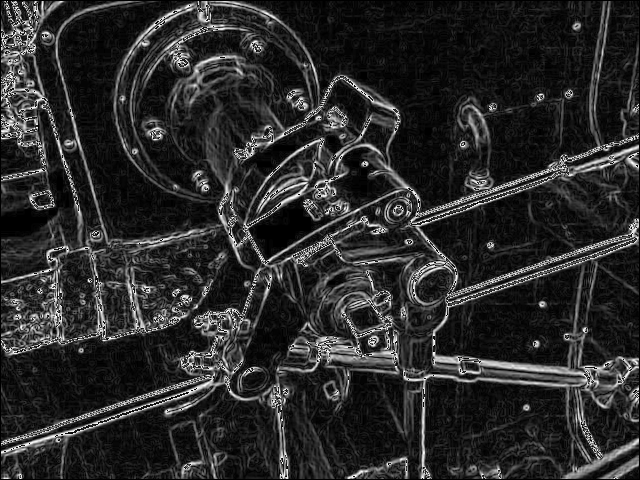
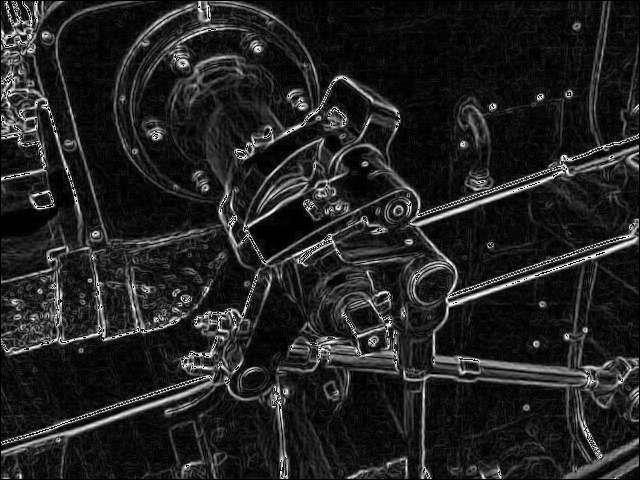
Ajouter nouveau filtres

diff --git a/filtres_contour/View.java b/filtres_contour/View.java
@@ -9,14 +9,18 @@ import javax.swing.*;
 public class View extends JFrame{
  
 	private static final long serialVersionUID = 1L;
-	private JButton bouton = new JButton("Filtre de Sobel");
-  private JButton bouton2 = new JButton("Second Filtre");
-  private JPanel container = new JPanel();
-  private JLabel label = new JLabel();
-  //private Image image ;
+	private JButton bouton = new JButton("Sobel");
+	private JButton bouton2 = new JButton("Robert's Cross");
+	private JButton bouton3 = new JButton("Prewitt");
+	private JButton boutonFermer = new JButton("Fermer");
+	private JPanel container = new JPanel();
+	private JLabel label = new JLabel();
+    //private Image image ;
   
 	ImageOriginale i = new ImageOriginale("Valve_original.png");
 	SobelFilter f = new SobelFilter();
+	RobertsCrossFilter r = new RobertsCrossFilter();
+	PrewittFilter p = new PrewittFilter();
 
   //ImageIcon image = new ImageIcon();
   
@@ -32,10 +36,14 @@ public class View extends JFrame{
    
     bouton.addActionListener(new BoutonListener());
     bouton2.addActionListener(new Bouton2Listener());
+    bouton3.addActionListener(new Bouton3Listener());
+    boutonFermer.addActionListener(new BoutonFermerListener());
         
     JPanel south = new JPanel();
     south.add(bouton);
     south.add(bouton2);
+    south.add(bouton3);
+    south.add(boutonFermer);
     container.add(south, BorderLayout.SOUTH);
 
     /*label = new JLabel()
@@ -56,22 +64,34 @@ public class View extends JFrame{
        
   
   class BoutonListener implements ActionListener{
-    
     public void actionPerformed(ActionEvent arg0) {
-
 		i.applyFilter(f);
-		
 		i.save("test_sobel.PNG");
-
     	label.setIcon(new ImageIcon("test_sobel.PNG"));
-
     }
   }
       
  
   class Bouton2Listener implements ActionListener{
     public void actionPerformed(ActionEvent e) {
-   
+    	i.applyFilter(r);
+		i.save("test_sobel.PNG");
+    	label.setIcon(new ImageIcon("test_sobel.PNG"));
     }
-  }      
+  }     
+  
+  class Bouton3Listener implements ActionListener{
+    public void actionPerformed(ActionEvent e) {
+    	i.applyFilter(p);
+		i.save("test_sobel.PNG");
+    	label.setIcon(new ImageIcon("test_sobel.PNG"));
+    }
+  }  
+  
+  class BoutonFermerListener implements ActionListener{
+    public void actionPerformed(ActionEvent e) {
+    	System.exit(0);
+    }
+  }  
+  
 }

diff --git a/filtres_contour/PrewittFilter.java b/filtres_contour/PrewittFilter.java
@@ -2,7 +2,7 @@ package filtres_contour;
 
 import java.awt.*;
 
-class SobelFilter extends Filtre {
+class PrewittFilter extends Filtre {
 	public int[][] process(int [][] img, int w, int h) {
 		int y,x, R;
 		int out[][] = new int[w][h];
@@ -20,15 +20,15 @@ class SobelFilter extends Filtre {
 				pixelMatrix[2][2]=new Color(img[i+1][j+1]).getRed();
 
 				y = (pixelMatrix[0][0]*-1)+
-					(pixelMatrix[0][1]*-2)+
+					(pixelMatrix[0][1]*-1)+
 					(pixelMatrix[0][2]*-1)+
 					(pixelMatrix[2][0])+
-					(pixelMatrix[2][1]*2)+
+					(pixelMatrix[2][1])+
 					(pixelMatrix[2][2]);
 				x = (pixelMatrix[0][0]*-1)+
 					(pixelMatrix[0][2])+
-					(pixelMatrix[1][0]*-2)+
-					(pixelMatrix[1][2]*2)+
+					(pixelMatrix[1][0]*-1)+
+					(pixelMatrix[1][2])+
 					(pixelMatrix[2][0]*-1)+
 					(pixelMatrix[2][2]);
 					

diff --git a/filtres_contour/RobertsCrossFilter.java b/filtres_contour/RobertsCrossFilter.java
@@ -1,0 +1,31 @@
+package filtres_contour;
+
+import java.awt.*;
+
+class RobertsCrossFilter extends Filtre {
+	public int[][] process(int [][] img, int w, int h) {
+		int y,x, R;
+		int out[][] = new int[w][h];
+		int[][] pixelMatrix=new int[2][2];
+		for(int i=0;i<w-1;i++){
+			for(int j=0;j<h-1;j++){
+				pixelMatrix[0][1]=new Color(img[i][j+1]).getRed();
+				pixelMatrix[1][0]=new Color(img[i+1][j]).getRed();
+				
+				pixelMatrix[0][0]=new Color(img[i][j]).getRed();
+				pixelMatrix[1][1]=new Color(img[i+1][j+1]).getRed();
+
+				x = (pixelMatrix[0][1])+
+					(pixelMatrix[1][0]*-1);
+				y = (pixelMatrix[0][0]*1)+
+					(pixelMatrix[1][1]*-1);
+					
+				R = (int) Math.sqrt(Math.pow(y,2)+Math.pow(x,2));
+				
+				out[i][j] = (R<<16 | R<<8 | R);
+			}
+		}
+		return out;
+	}
+
+}

diff --git a/filtres_contour/ImageOriginale.java b/filtres_contour/ImageOriginale.java
@@ -37,7 +37,7 @@ class ImageOriginale {
    public int getHeight() {return height;}
    public int getWidth() {return width;}
    
-   public void applyFilter(SobelFilter f) {
+   public void applyFilter(Filtre f) {
 	   int i, j;
 		pixels = f.process(pixels,width,height);
 		for (i=0; i<width; i++) {

diff --git a/filtres_contour/Filtre.java b/filtres_contour/Filtre.java
@@ -1,5 +1,5 @@
 package filtres_contour;
 
-abstract class Filter {
+abstract class Filtre {
 	abstract int[][] process(int [][] img, int w, int h) ;
 }
